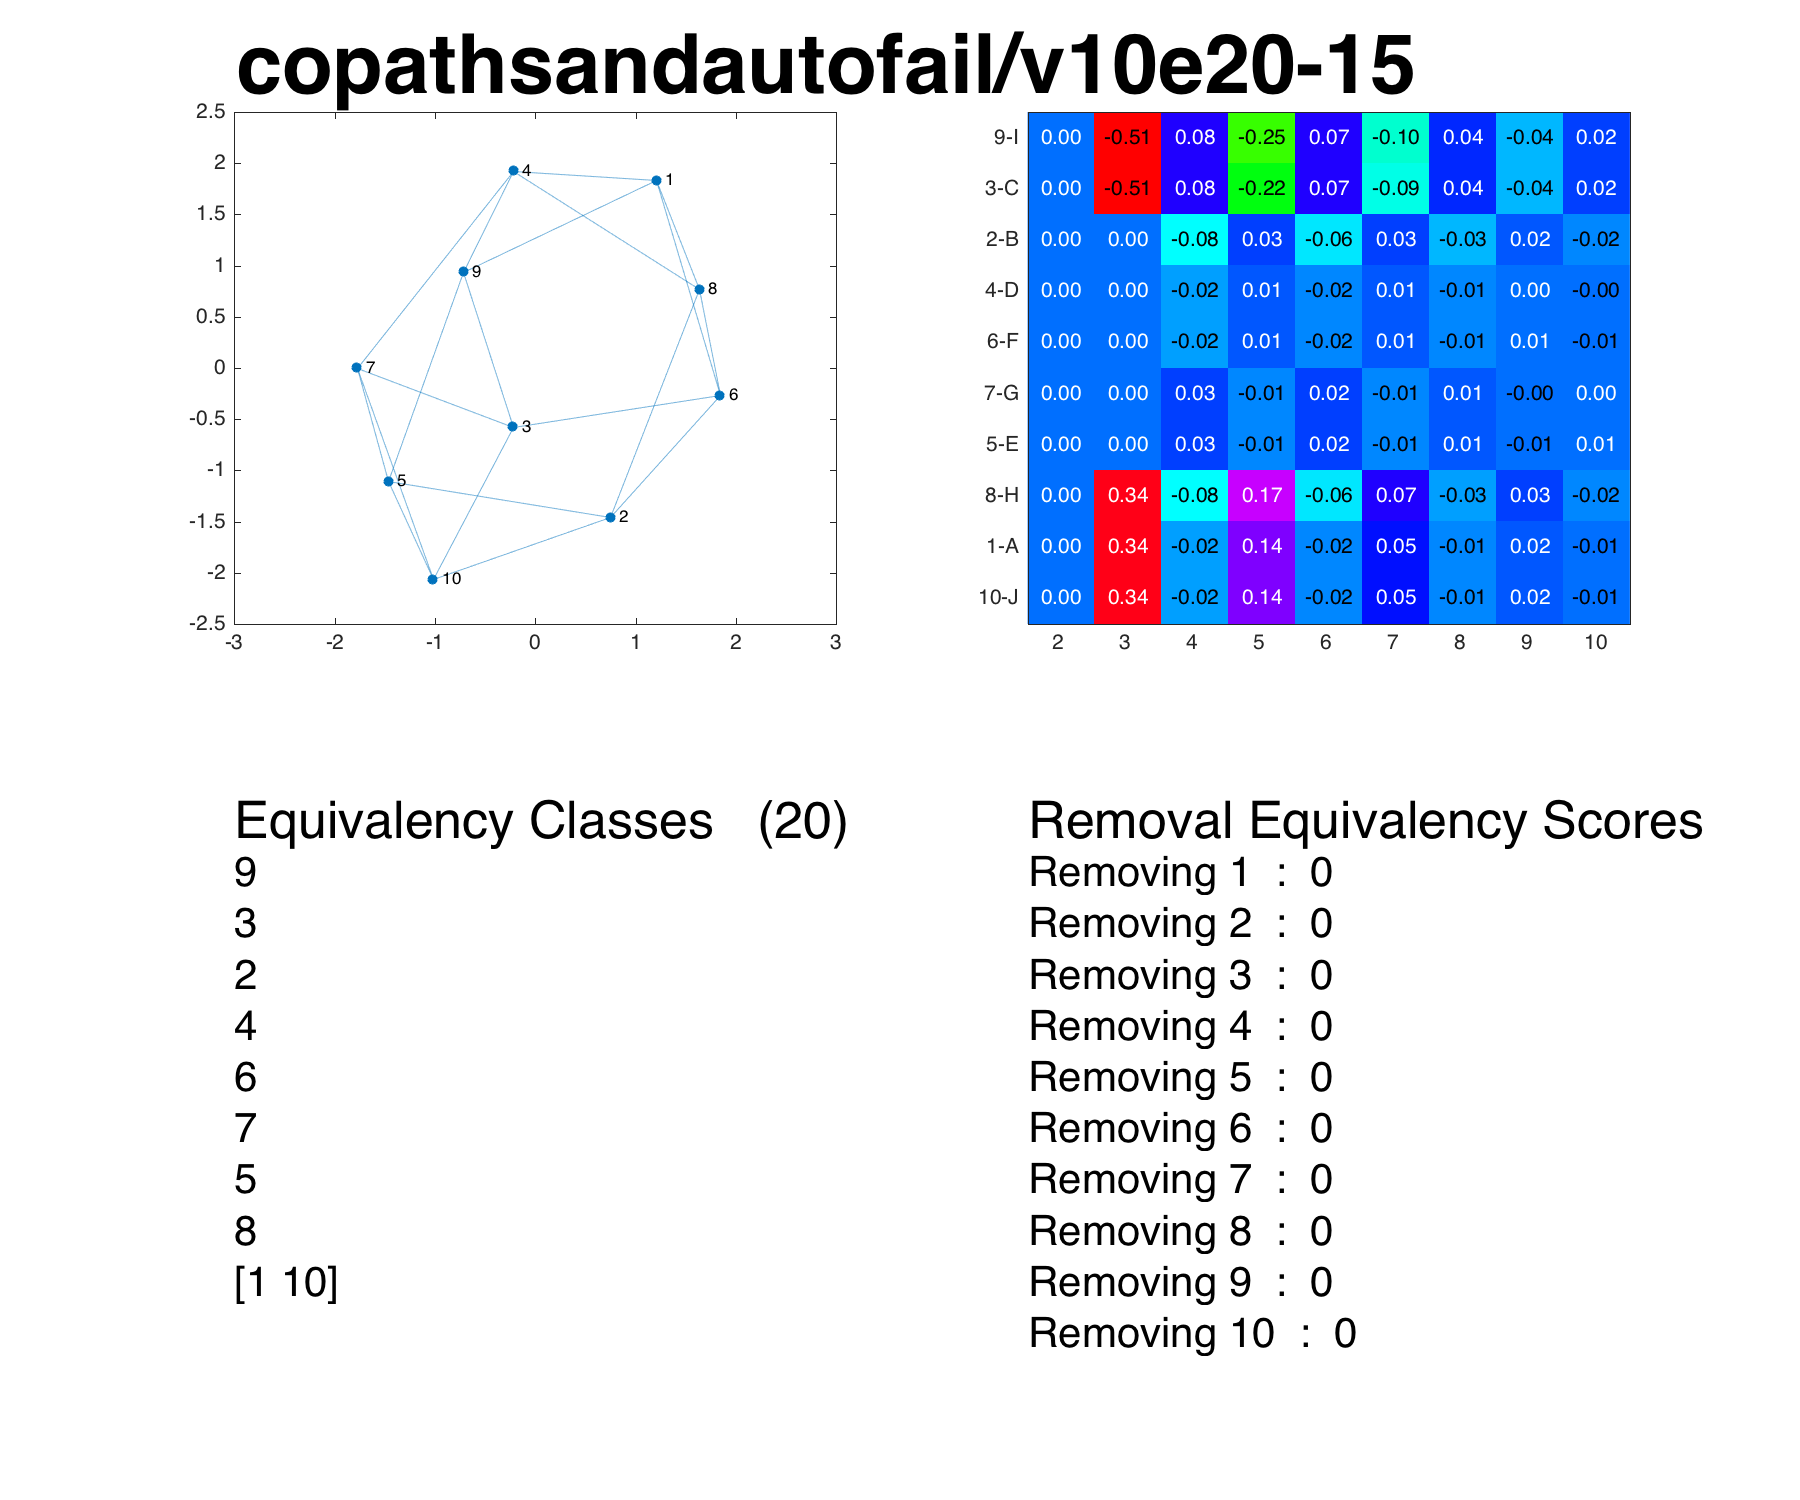
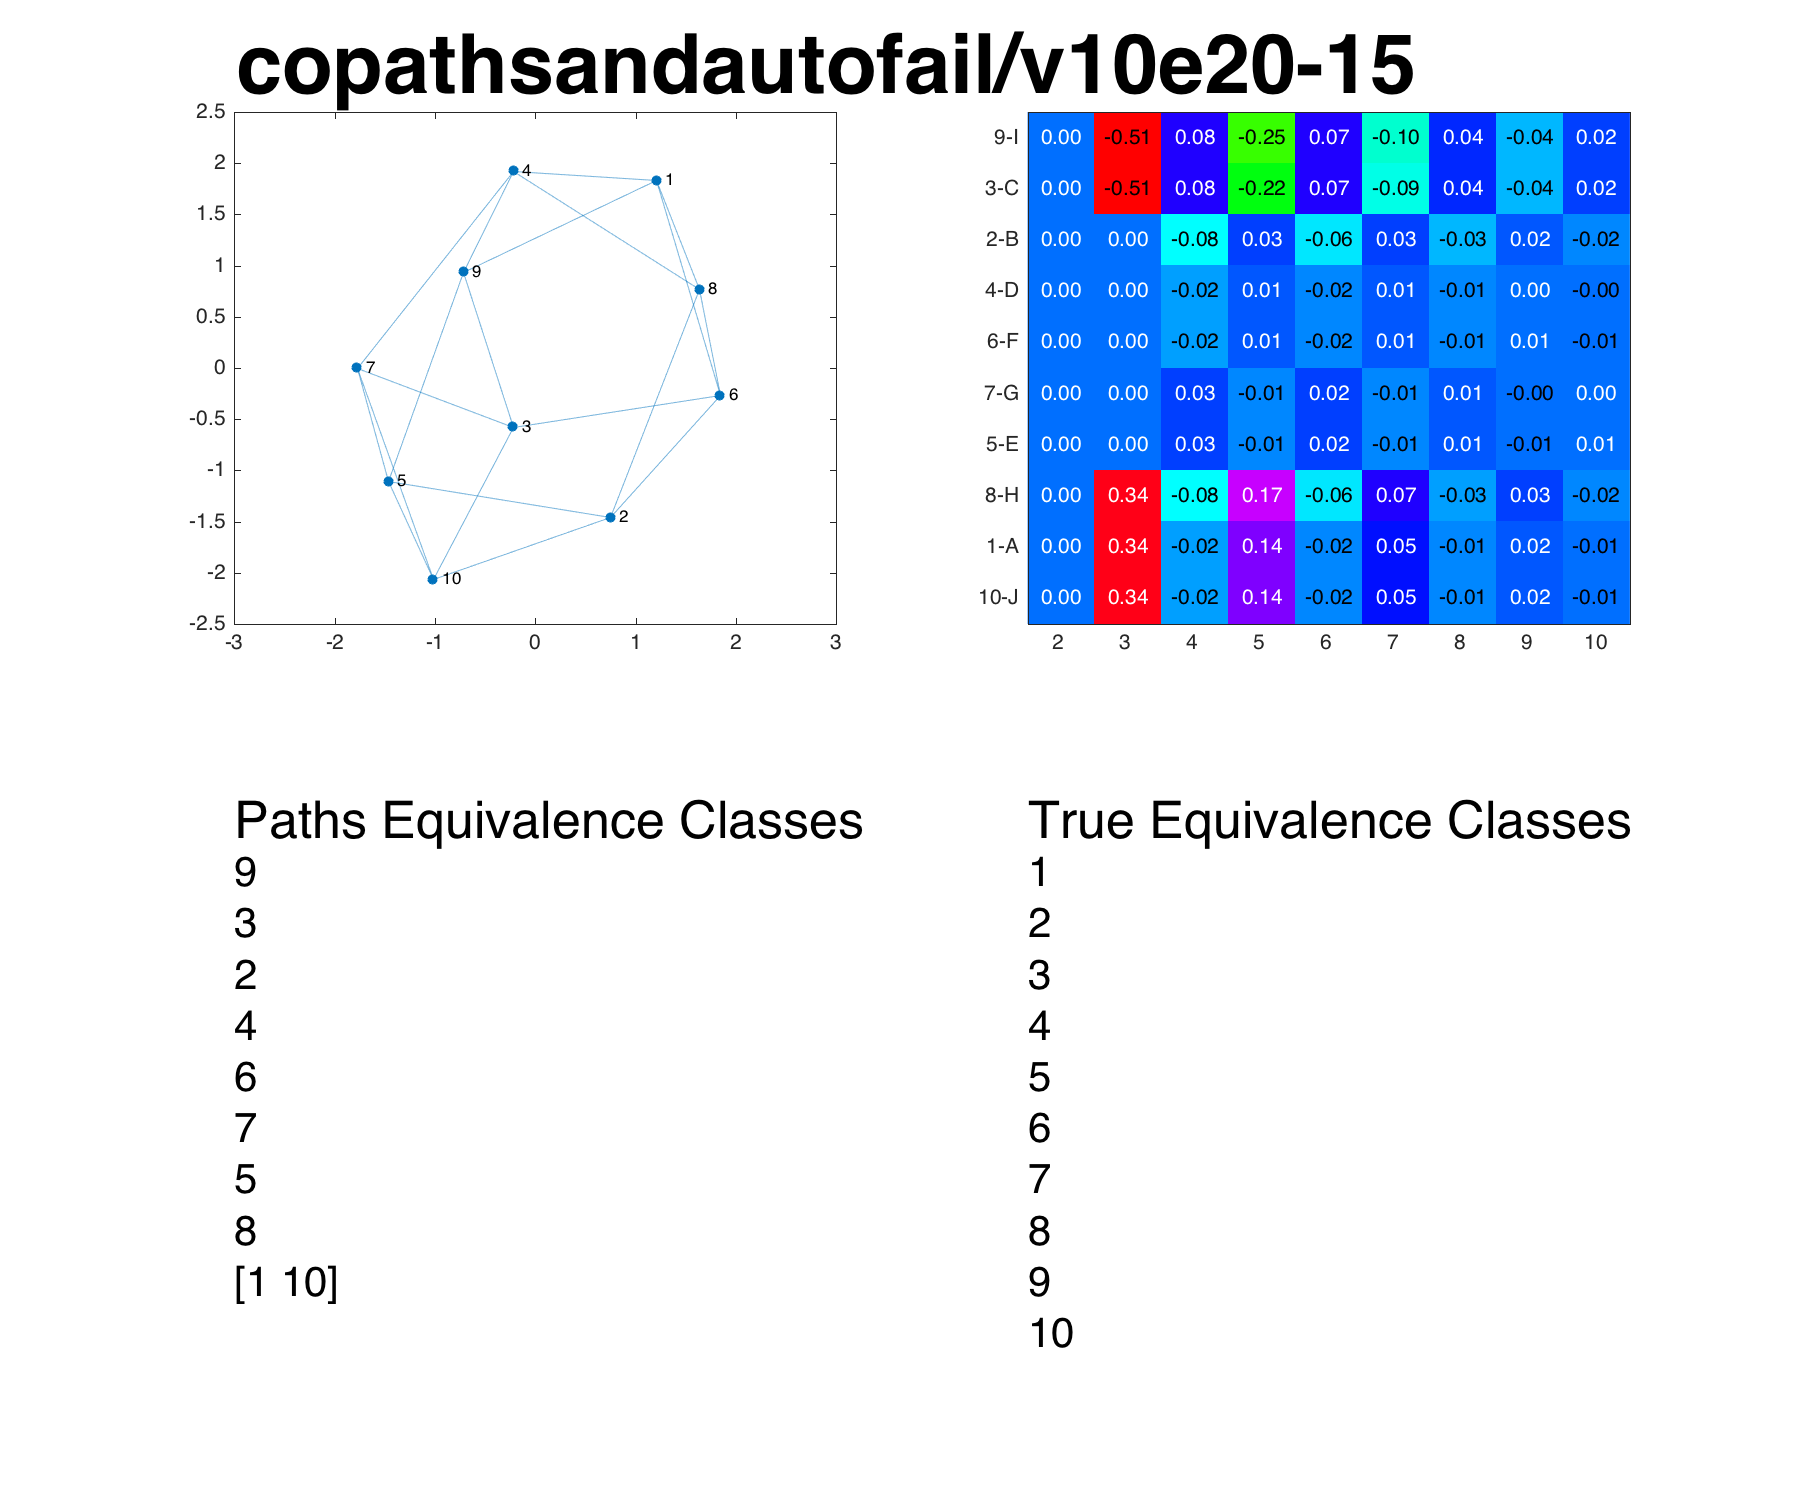
Modified the Graph Visualization Process to include the actual automorphism groups.

Changed region(s): [[0.56, 0.5213, 0.9333, 0.92], [0.1244, 0.5213, 0.4667, 0.5827]]

diff --git a/Matlab/comparison and processing/visualizeGraphPaths.m b/Matlab/comparison and processing/visualizeGraphPaths.m
@@ -10,27 +10,25 @@ function visualizeGraphPaths( A , name , recurse )
     
     v = size(A, 1);
     
-    % Finds and displays the equivalency classes for the graph.
+    % Finds and displays the paths equivalency classes for the graph.
     equivClasses = findQuaziEquivalenceClasses(A);
     ax = axes('position',[0,0,1,1],'visible','off');
     subplot(2,2,3,ax);
-    tx = text(0,1,['Equivalency Classes   (', num2str(scoreEquivalencyClasses(equivClasses)),')']);
+    tx = text(0,1,'Paths Equivalence Classes');
     set(tx, 'FontSize', 25);
     for i = 1 : size(equivClasses, 2)
         txt = text(0,(v-i)/v, mat2str(cell2mat(equivClasses(1, i))));
         set(txt, 'FontSize', 20);
     end
     
-    % Finds the equivalencyClassScores for all one off subgraphs.
+    % Finds and displays the true equivalency classes for the graph.
+    equivClasses = deduceAutomorphismGroupsFromAutomorphisms(findAllAutomorphisms(A));
     ax = axes('position',[0,0,1,1],'visible','off');
     subplot(2,2,4,ax);
-    tx = text(0,1,'Removal Equivalency Scores');
+    tx = text(0,1,'True Equivalence Classes');
     set(tx, 'FontSize', 25);
-    for i = 1 : size(A, 1)
-        idx = setdiff(1:v, i);
-        tempGraph = A(idx, idx);
-        score = scoreEquivalencyClasses(findQuaziEquivalenceClasses(tempGraph));
-        txt = text(0,(v-i)/v, ['Removing ', num2str(i),'  :  ',num2str(score)]);
+    for i = 1 : size(equivClasses, 2)
+        txt = text(0,(v-i)/v, mat2str(cell2mat(equivClasses(1, i))));
         set(txt, 'FontSize', 20);
     end
     
